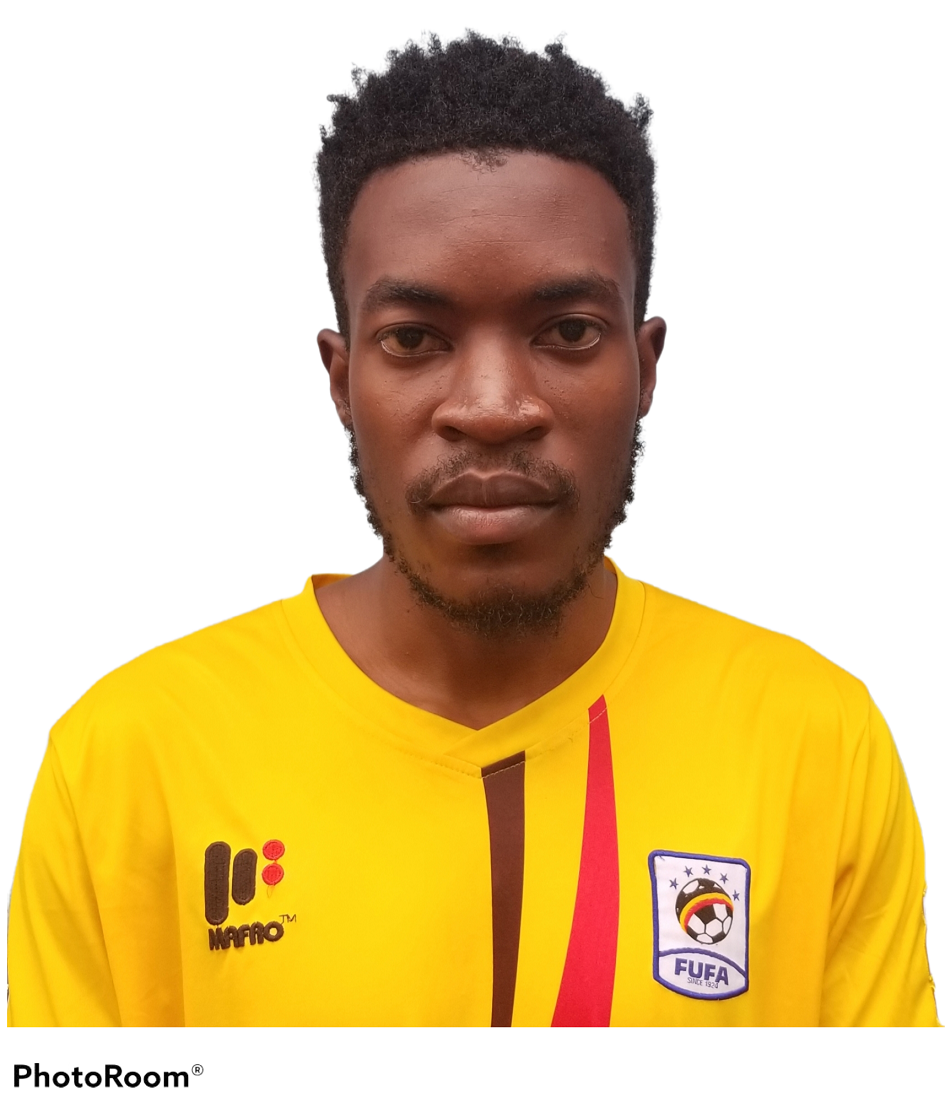
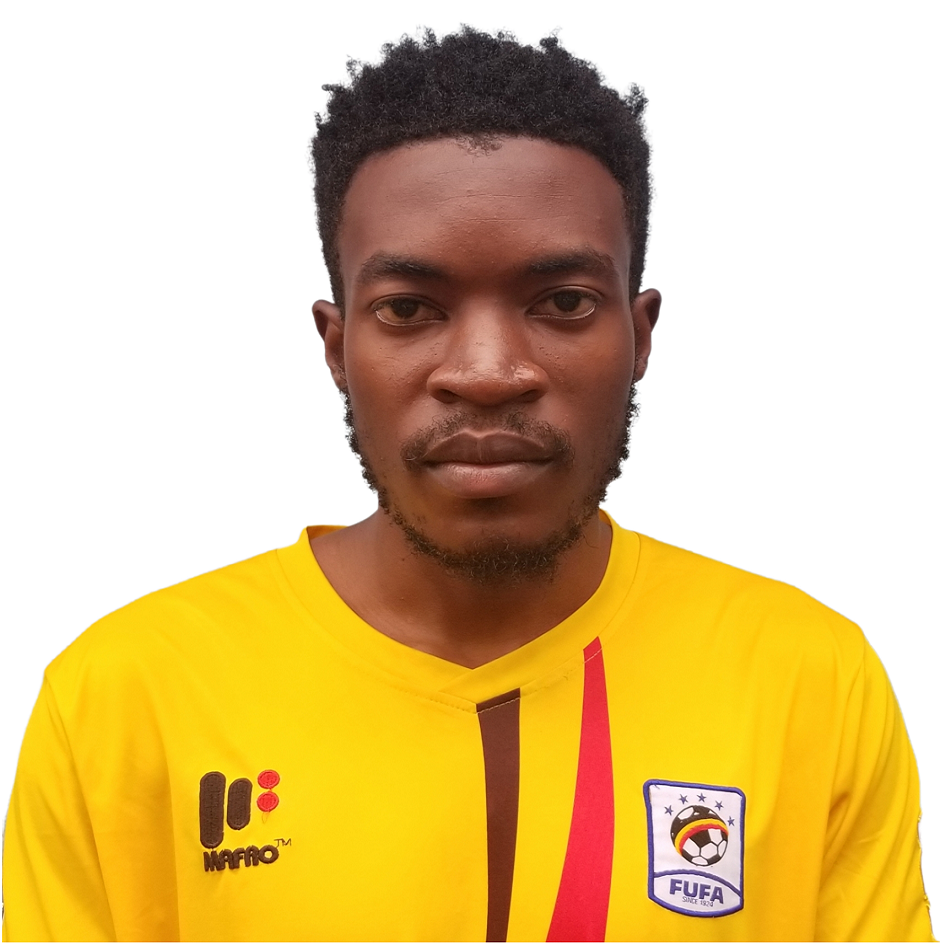
updates

diff --git a/team.html b/team.html
@@ -107,7 +107,7 @@
       </div>
       <div class="col-lg-3 col-md-6 d-flex align-items-stretch" data-aos="fade-up" data-aos-delay="200">
         <div class="member">
-          <div class="member-img"> <img src="assets/img/team/team2.jpg" class="img-fluid" alt="">
+          <div class="member-img"> <img src="assets/img/team/ronald.png" class="img-fluid" alt="">
             <div class="social"> <a href=""><i class="bi bi-twitter"></i></a> <a href=""><i class="bi bi-facebook"></i></a> <a href=""><i class="bi bi-instagram"></i></a> <a href=""><i class="bi bi-linkedin"></i></a> </div>
           </div>
           <div class="member-info">
@@ -197,7 +197,7 @@
       </div>
       <div class="col-lg-3 col-md-6 d-flex align-items-stretch" data-aos="fade-up" data-aos-delay="400">
         <div class="member">
-          <div class="member-img"> <img src="assets/img/team/medius.jpg" class="img-fluid" alt="">
+          <div class="member-img"> <img src="assets/img/team/medius.png" class="img-fluid" alt="">
             <div class="social"> <a href=""><i class="bi bi-twitter"></i></a> <a href=""><i class="bi bi-facebook"></i></a> <a href=""><i class="bi bi-instagram"></i></a> <a href=""><i class="bi bi-linkedin"></i></a> </div>
           </div>
           <div class="member-info">

diff --git a/membership.html b/membership.html
@@ -76,12 +76,12 @@
 
 <section id="team" class="team section-bg">
   
-  <div class="container" data-aos="fade-up">
+  <div class="container-fluid" data-aos="fade-up">
     <div class="section-title">
       <h2>Membership</h2>
       <h3>How to be a <span>Member</span></h3>
       <div align="center">
-        <img src="assets/img/membership.png" alt="how to be a member">
+        <img src="assets/img/membership.png" alt="how to be a member" class="img-fluid">
         <p>Thanks for your interest in joining and supporting OpenStreetMap Uganda. Members of the organisation are entitled to vote in the affairs of the organisatioin. Anyone interest in influencing the activities of the organization is welcome to join. Please note that, you do not have to be a member in order to use or contribute to OpenStreetMap.</p>
         <h3>Membership Fee: UGX 50,000 per year!</h3>
       </div>
@@ -89,7 +89,7 @@
 </section>
 
  <section id="contact" class="contact">
-  <div class="container" data-aos="fade-up">
+  <div class="container container-fluid" data-aos="fade-up">
     <div class="section-title">
       <h2>SignUp</h2>
       <div align="center" class="container-fluid">

diff --git a/README.md b/README.md
@@ -1,2 +1,2 @@
-# openstreetmap-uganda-v2
-This is a repository for OpenStreetMap Uganda to build a new version of its website that is more user friendly, adapts to all devices
+# mapuganda.github.io
+This is a repository for OpenStreetMap Uganda to build the second new version of its website that is more user friendly, adapts to all devices and more beautiful website
